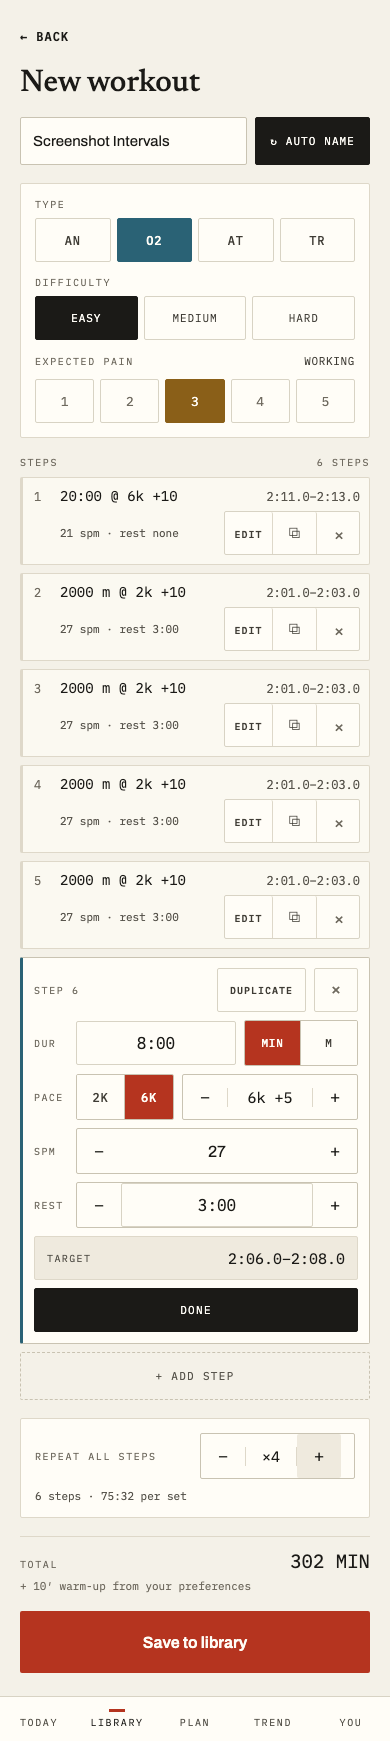
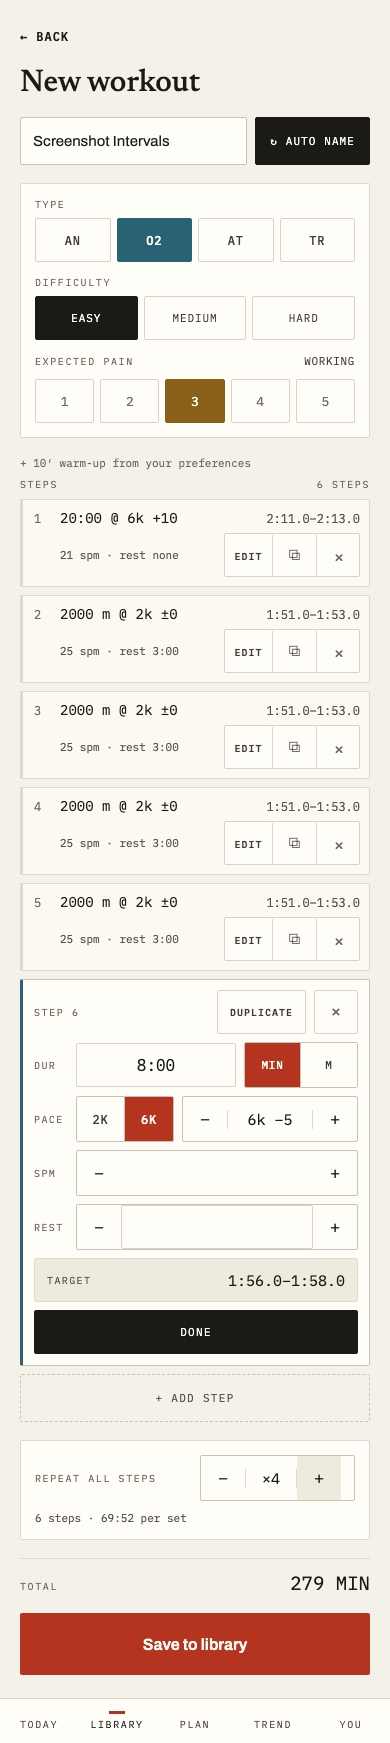
feat: the warm-up reads as step zero, above the list
Moves the builder's warm-up preference line from beneath the totals to
directly above the step list, so it reads as an implicit step 0 (what
actually happens at session start) rather than something appended last.

diff --git a/app/src/builder/Builder.test.tsx b/app/src/builder/Builder.test.tsx
@@ -321,7 +321,7 @@ describe("Builder", () => {
 
   // ---- TOTAL / warm-up / Save to library (task brief test 8) -------------
 
-  it("renders TOTAL with the warm-up line beneath it, and the primary button reads Save to library", async () => {
+  it("renders TOTAL and the primary button reads Save to library", async () => {
     mockBaselines(BASELINES);
     mockPreferences(10);
     mockApi(() => new Response(null, { status: 201 }));
@@ -331,18 +331,33 @@ describe("Builder", () => {
 
     expect(screen.getByText("TOTAL")).toBeInTheDocument();
     expect(screen.getByText("5 MIN")).toBeInTheDocument();
-    const totalLabel = screen.getByText("TOTAL");
-    const warmup = screen.getByText(/warm-up/i);
-    expect(warmup).toHaveTextContent("+ 10′ warm-up from your preferences");
-    // "beneath" is a DOM-order claim, not just "present somewhere".
     expect(
-      totalLabel.compareDocumentPosition(warmup) &
-        Node.DOCUMENT_POSITION_FOLLOWING,
-    ).toBeTruthy();
+      screen.getByText("+ 10′ warm-up from your preferences"),
+    ).toBeInTheDocument();
 
     expect(
       screen.getByRole("button", { name: "Save to library" }),
     ).toBeInTheDocument();
+  });
+
+  // ---- Warm-up placement (Phase 5F task 7) --------------------------------
+  // The warm-up is prepended at session start, not authored last — it reads
+  // as an implicit step 0, so it must sit above the step list rather than
+  // down by the totals where it used to live.
+
+  it("shows the warm-up above the step list, not below the totals", async () => {
+    mockBaselines(BASELINES);
+    mockPreferences(10);
+    mockApi(() => new Response(null, { status: 201 }));
+    await renderBuilder(); // preferences default to "ready" (see beforeEach)
+
+    const warmup = await screen.findByText(/warm-up from your preferences/);
+    const steps = screen.getByText("STEPS");
+
+    // FOLLOWING means `steps` comes after `warmup` in document order.
+    expect(
+      warmup.compareDocumentPosition(steps) & Node.DOCUMENT_POSITION_FOLLOWING,
+    ).toBeTruthy();
   });
 
   it("renders — MIN and no warm-up line while preferences are loading", async () => {

diff --git a/app/src/builder/Builder.tsx b/app/src/builder/Builder.tsx
@@ -380,6 +380,21 @@ export default function Builder({ mode }: { mode?: BuilderEditMode } = {}) {
         {errors.pain && <p className="field-error">{errors.pain}</p>}
       </div>
 
+      {preferencesState.state === "ready" && (
+        // Context only, never authored into the workout: `toSteps` never
+        // sees this value, so changing the preference later doesn't leave
+        // any saved workout stale (Phase 6's session flow prepends the
+        // actual warm-up when a workout is started). Rendered only once the
+        // preference has actually loaded — while loading or on error this
+        // renders nothing rather than a placeholder number, since a wrong
+        // warm-up figure is worse than none. Placed above the step list
+        // rather than down by the totals: it reads as an implicit step 0,
+        // which is what actually happens at session start.
+        <p className="builder-warmup-line">
+          {`+ ${preferencesState.preferences.warmupMinutes}′ warm-up from your preferences`}
+        </p>
+      )}
+
       <div className="builder-steps">
         <div className="builder-steps-header">
           <span>STEPS</span>
@@ -455,18 +470,6 @@ export default function Builder({ mode }: { mode?: BuilderEditMode } = {}) {
             {totalsResult ? `${Math.round(totalsResult.total)} MIN` : "— MIN"}
           </span>
         </div>
-        {preferencesState.state === "ready" && (
-          // Context only, never authored into the workout: `toSteps` never
-          // sees this value, so changing the preference later doesn't leave
-          // any saved workout stale (Phase 6's session flow prepends the
-          // actual warm-up when a workout is started). Rendered only once the
-          // preference has actually loaded — while loading or on error this
-          // renders nothing rather than a placeholder number, since a wrong
-          // warm-up figure is worse than none.
-          <p className="builder-warmup-line">
-            {`+ ${preferencesState.preferences.warmupMinutes}′ warm-up from your preferences`}
-          </p>
-        )}
       </div>
 
       {submitError && (

diff --git a/app/src/index.css b/app/src/index.css
@@ -920,8 +920,15 @@ button:disabled {
   color: var(--ink);
 }
 
+/* Sits directly above `.builder-steps` (Builder.tsx) — the warm-up reads as
+   an implicit step 0, so it needs to sit close to the list it precedes
+   rather than floating at the page's standard 18px block rhythm (the gap
+   `.screen.builder-screen` already puts between every other pair of blocks).
+   Negative margin-bottom claws back 10px of that gap, leaving 8px — the same
+   distance `.builder-steps` uses internally between its own header and card
+   list — so the line reads as part of that group, not a block of its own. */
 .builder-warmup-line {
-  margin: 0;
+  margin: 0 0 -10px;
   font-family: var(--font-mono);
   font-size: 11px;
   color: var(--ink-4);

diff --git a/docs/design/DEVIATIONS.md b/docs/design/DEVIATIONS.md
@@ -13,7 +13,7 @@ here. These are intentional product decisions (spec:
 | Sample data: 11 book-derived workouts ("Lucky Penny", …) | Original ~35-workout starter library (original names), seeded per new account | Content policy |
 | "11 OF 375 ENTERED" library counter | Plain count of the user's library (no fixed denominator) | 375 is the book's scale, not ours |
 | `ink-4` `#8a8478` for mono labels (e.g. "33D AGO", step sub-lines) | `ink-4` **`#6f6a5f`** | `#8a8478` measures 3.29:1 on `--page` and 3.65:1 on `--surface` — below the handoff's own WCAG AA (≥4.5:1) requirement for this text size. `#6f6a5f` measures 4.76:1 on `--page` and 5.29:1 on `--surface`, passing AA while preserving the four-tier ink hierarchy (ink → ink-2 → ink-3 → ink-4) rather than collapsing small labels into ink-3. AA is the hard requirement; the literal hex was not. The builder redesign's own step-index numeral (`StepCard.tsx`'s `.step-card-index`) uses this same substitution for the same reason — its handoff explicitly calls out `#8a8478` there too (~3.4:1) and says to move it to `#6f6a5f` if axe flags it; it does, so it's already `#6f6a5f` in `tokens.css`, and `e2e/design.spec.ts`'s accordion-states sweep pins the resolved colour structurally |
-| `+ ADD ROW`'s mockup `nwRows` model has no `kind` field at all — every added row is implicitly a work row | A single `+ ADD STEP` control, work rows only — no `+ WARM-UP` any more. Warm-up leaves the workout entirely: it's read from the rower's preferences (`GET /api/prefs`'s `warmupMinutes`) and shown as a line beneath TOTAL, applied at session start rather than authored per workout | `+ WARM-UP` existed for one phase because the domain distinguishes warm-up, work, and rest steps and every starter workout in the book opens with one — a builder that could only ever add work rows couldn't author a warm-up from scratch. A later round of device feedback found authoring one per workout was pointless friction: every session uses the same easy warm-up regardless of which workout follows it, so it moved to a one-time preference instead of a per-workout row. `addBlankStep`'s "+ ADD STEP" (`builderState.ts`) and `StepEditor.tsx`'s `wu`/`r` minutes-only branch stay in the code — bulk import and edit-mode `fromWorkout` can still produce/keep a stored `wu`/`r` step, and a pasted or previously-saved workout that already has one must stay editable — it's just not authorable from a blank builder any more. There is likewise no `+ REST` control: rest is authored via a work row's own REST stepper instead, for the same "not reachable from a create-mode button, but still editable" reason |
+| `+ ADD ROW`'s mockup `nwRows` model has no `kind` field at all — every added row is implicitly a work row | A single `+ ADD STEP` control, work rows only — no `+ WARM-UP` any more. Warm-up leaves the workout entirely: it's read from the rower's preferences (`GET /api/prefs`'s `warmupMinutes`) and shown as a line directly above the step list — reading as an implicit step 0, since that's what actually happens at session start — rather than authored per workout or saved on it | `+ WARM-UP` existed for one phase because the domain distinguishes warm-up, work, and rest steps and every starter workout in the book opens with one — a builder that could only ever add work rows couldn't author a warm-up from scratch. A later round of device feedback found authoring one per workout was pointless friction: every session uses the same easy warm-up regardless of which workout follows it, so it moved to a one-time preference instead of a per-workout row. `addBlankStep`'s "+ ADD STEP" (`builderState.ts`) and `StepEditor.tsx`'s `wu`/`r` minutes-only branch stay in the code — bulk import and edit-mode `fromWorkout` can still produce/keep a stored `wu`/`r` step, and a pasted or previously-saved workout that already has one must stay editable — it's just not authorable from a blank builder any more. There is likewise no `+ REST` control: rest is authored via a work row's own REST stepper instead, for the same "not reachable from a create-mode button, but still editable" reason |
 | The builder-redesign handoff's own `rows` state models **only work steps** — no `kind` field at all (just `dur`/`unit`/`ref`/`off`/`spm`/`rest`) | `wu`/standalone `r` steps still render, are still editable, and still round-trip through Save unchanged — `StepEditor.tsx`'s minutes-only editor branch (header, DUR, DONE — no PACE/SPM/REST/TARGET), `builderState.ts`'s `stepToRow`/`toSteps` | Same standing reason as the `+ ADD ROW` row above, restated because this redesign's own handoff repeats the omission rather than fixing it: the domain distinguishes warm-up/work/rest steps and all 35 starter workouts (plus anything bulk-imported) can contain a stored `wu`, so a builder that silently dropped it on open-and-save would destroy data the moment an existing workout was edited. `StepCard.tsx`'s collapsed summary is equally honest about it (`stepSummary`/`stepSubSummary` read `row.kind` rather than fabricating a pace reference a `wu`/`r` row never had) |
 | Free-text `DUR` field (`input placeholder="1'"`) — the encoding (minutes vs. meters) is implied only by what the rower happens to type | A numeric value field paired with a two-chip **MIN / M** unit toggle (`DurationInput`), each control ≥44px | Free text left the unit ambiguous — a rower had to remember whether to type a bare number, `10'`, or `2500m`, the same category of defect (an invalid or ambiguous hand-typed value) that started this phase for PACE REF below. The toggle makes both encodings equally easy to author with nothing to remember, and the value field alone stays a plain number `toSteps` bounds-checks directly, no grammar involved |
 | New handoff's SPM stepper: `+` from empty jumps to **18** ("Interactions & behaviour") | Ergomatic's SPM stepper (`StepEditor.tsx`, built on the shared `Stepper.tsx`) wakes at **20** instead, and clamps to a ceiling of **60** and a floor of **10 before clearing back to FREE** rather than the handoff's implied `0..40` | 20 is the wake value Ergomatic's SPM control has used since before this redesign (the now-deleted `SpmInput.tsx`'s own free-text-plus-steppers control, itself mirroring James's own rule for the wake value) — the redesign changed which control renders SPM, not what pressing `+` from empty should land on, so the value carried through unchanged. The handoff's `18`/`40` are its own prototype's picks, never reconciled against a real cadence; `60` matches `domain/validate.ts`'s actual `int(s.spm, 10, 60)` ceiling. The `10` floor does **not** carry the same "server accepts it" justification — *absent* spm is equally acceptable to the server (SPM stays optional), so `−` at 10 clears to `""`/FREE rather than sticking at 10; only the ceiling is a real server-bound clamp |

diff --git a/docs/design/builder-redesign/README.md b/docs/design/builder-redesign/README.md
@@ -24,7 +24,7 @@ Also new: **rest is a stepper in 30-second increments** (was a free-typed minute
 **Purpose:** author a workout: title, type, difficulty, expected pain, ordered steps, repeat count; save to library.
 **Frame:** 390 × 844. Page background `#f4f1e8`. Single vertical scroll column, `padding: 14px 20px 24px`, `gap: 18px` between blocks. Usable content width **350px**.
 
-The screen reads as four blocks: **identity** (back + title + name field) → **classification card** → **steps** → **totals + Save**.
+The screen reads as five blocks: **identity** (back + title + name field) → **classification card** → **warm-up line** → **steps** → **totals + Save**.
 
 ### 1. Header
 
@@ -65,6 +65,8 @@ Every chip: `flex: 1`, height **44px**, radius 2px, centred, `gap: 6px` between 
 - Note: the ink-stroke faces from the previous version were dropped. If the face illustrations are re-added, keep the numeral and the same fills — the faces at ~20px were the weakest contrast element on the screen.
 
 ### 4. Steps
+
+Immediately above the section header: `+ 10′ warm-up from your preferences` — mono 11px, `#6f6a5f`. Informational only, never authored into the workout (the warm-up is applied at session start, not saved as a step). Rendered only once the preference has loaded — nothing shown while loading or on error, since a wrong warm-up figure is worse than none. Placed here rather than beside the totals so it reads as an implicit step 0: it's what actually happens first when a session starts.
 
 Section header row, `space-between`, both mono 10px / `0.16em` / `#6f6a5f`: `STEPS` and `2 STEPS` (singular `1 STEP`). Column gap 8px between cards.
 
@@ -126,7 +128,6 @@ Copy changed from `REPEAT (OPTIONAL)` to `REPEAT ALL STEPS` — it states the da
 
 - Block: `border-top: 1px solid #ded8c9`, `padding-top: 12px`, column `gap: 6px`.
 - Row `space-between`, baseline-aligned: `TOTAL` (mono 10px, `0.16em`, `#6f6a5f`) and `122 MIN` (mono **19px**, `#1b1a17`).
-- Below: `+ 10′ warm-up from your preferences` — mono 11px, `#6f6a5f`. Informational only; the warm-up is not part of the workout.
 - **Save to library** — full width, height **62px**, bg `#b5341f`, radius 2px, Archivo 16px weight 600, `#fffdf7`. Hover bg `#9c2c19`. `flex: none` so it never compresses.
 
 ## Interactions & behaviour
